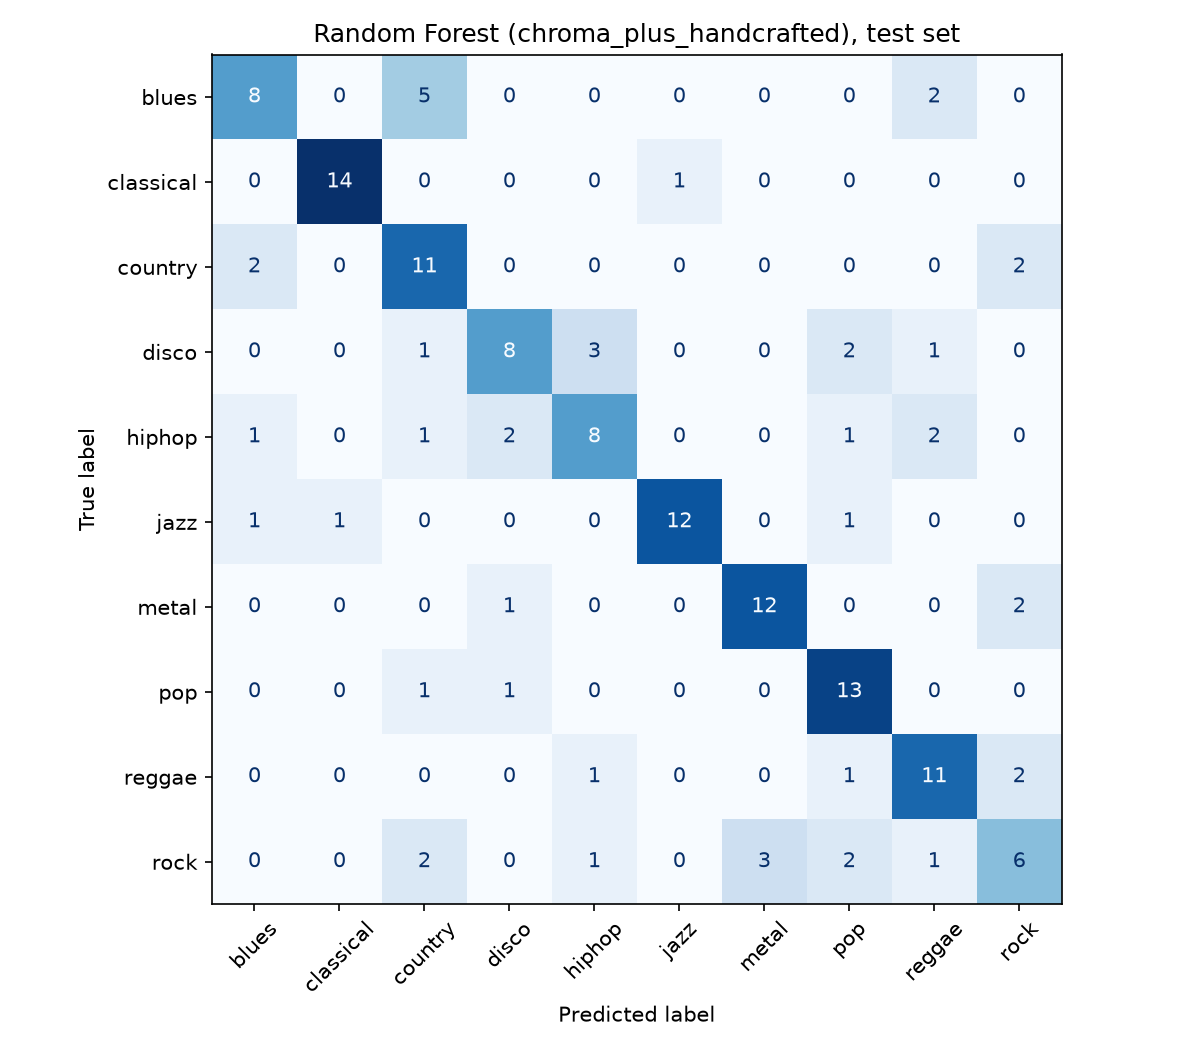
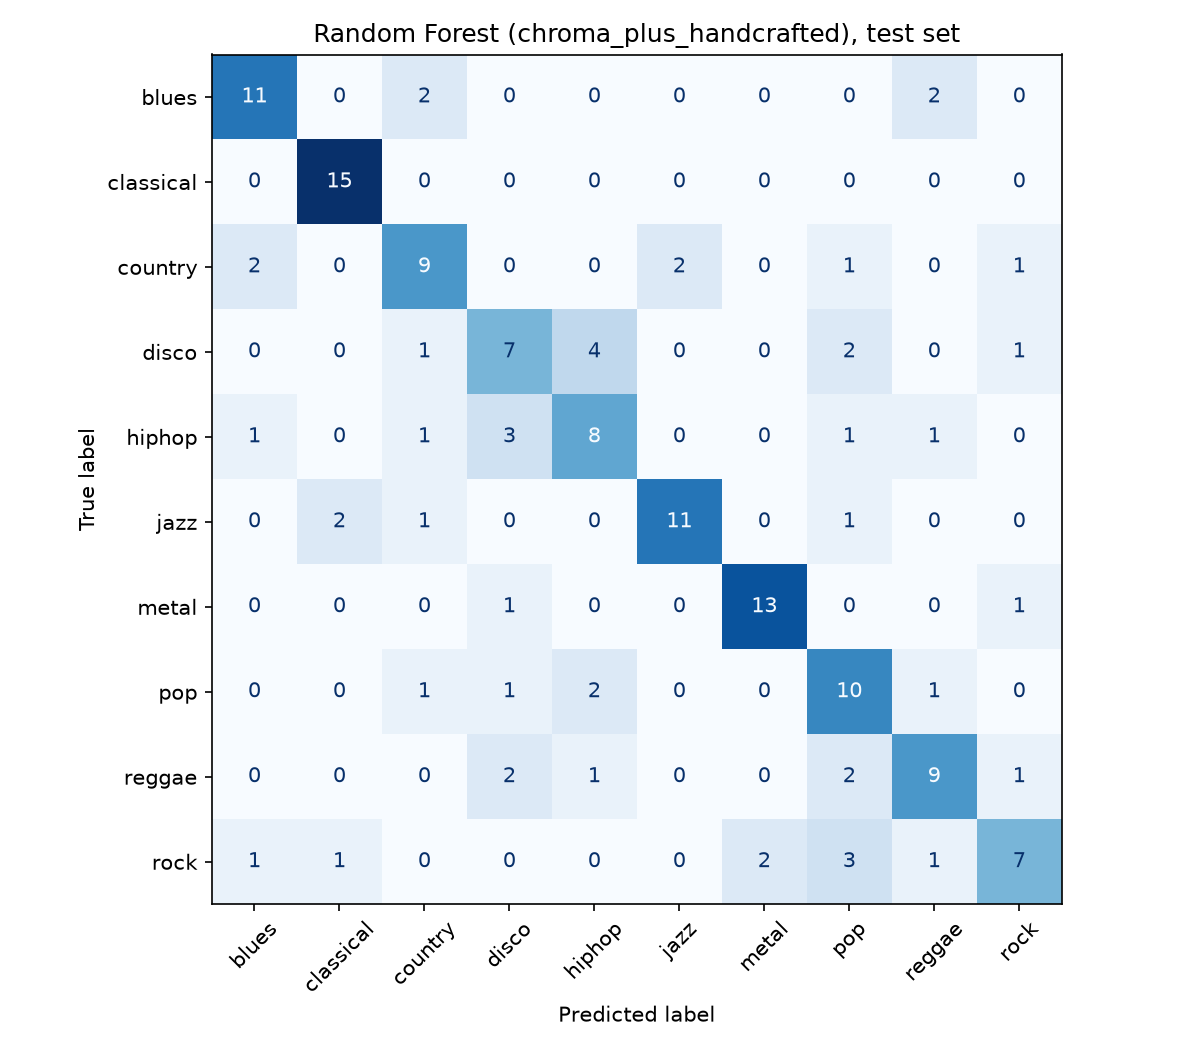
feat(P1.5): align handcrafted features to Tzanetakis and Cook, keep original RF result

diff --git a/offline/features/handcrafted.py b/offline/features/handcrafted.py
@@ -6,22 +6,32 @@ from offline.config import HOP_LENGTH, N_FFT, SAMPLE_RATE
 from offline.features.cache import is_cached, load_manifest, load_waveform, save_feature
 
 FEATURE = "handcrafted"
-N_MFCC = 20
+N_MFCC = 5  # Tzanetakis & Cook use the first five MFCCs, excluding the DC term
+
+
+def spectral_flux(y: np.ndarray) -> np.ndarray:
+    """Squared change between successive length-normalised magnitude spectra."""
+    mag = np.abs(librosa.stft(y, n_fft=N_FFT, hop_length=HOP_LENGTH))
+    mag = mag / (np.linalg.norm(mag, axis=0, keepdims=True) + 1e-10)
+    return np.sum(np.diff(mag, axis=1) ** 2, axis=0)
 
 
 def handcrafted_summary(y: np.ndarray) -> np.ndarray:
-    """Mean and std of MFCC, spectral centroid, rolloff, ZCR and RMS, plus tempo (49 numbers)."""
+    """Mean and std of MFCC 1-5, centroid, rolloff, ZCR, flux; low-energy fraction; tempo (20 numbers)."""
     kw = dict(sr=SAMPLE_RATE, n_fft=N_FFT, hop_length=HOP_LENGTH)
-    mfcc = librosa.feature.mfcc(y=y, n_mfcc=N_MFCC, **kw)
+    mfcc = librosa.feature.mfcc(y=y, n_mfcc=N_MFCC + 1, **kw)[1:]   # drop coefficient 0
     centroid = librosa.feature.spectral_centroid(y=y, **kw)
     rolloff = librosa.feature.spectral_rolloff(y=y, **kw)
     zcr = librosa.feature.zero_crossing_rate(y, hop_length=HOP_LENGTH)
-    rms = librosa.feature.rms(y=y, hop_length=HOP_LENGTH)
+    flux = spectral_flux(y)[None, :]
+    rms = librosa.feature.rms(y=y, hop_length=HOP_LENGTH)[0]
     tempo, _ = librosa.beat.beat_track(y=y, sr=SAMPLE_RATE, hop_length=HOP_LENGTH)
 
-    rows = np.vstack([mfcc, centroid, rolloff, zcr, rms])        # (24, time)
-    stats = np.concatenate([rows.mean(axis=1), rows.std(axis=1)])  # 48 numbers
-    return np.concatenate([stats, np.atleast_1d(tempo)[:1]]).astype(np.float32)
+    n = flux.shape[1]                                                # shortest series
+    rows = np.vstack([mfcc[:, :n], centroid[:, :n], rolloff[:, :n], zcr[:, :n], flux])   # (9, n)
+    stats = np.concatenate([rows.mean(axis=1), rows.std(axis=1)])    # 18 numbers
+    low_energy = np.mean(rms < rms.mean())                           # 1 number
+    return np.concatenate([stats, [low_energy], np.atleast_1d(tempo)[:1]]).astype(np.float32)
 
 
 def extract_all(kind: str) -> None:

diff --git a/tests/test_features.py b/tests/test_features.py
@@ -24,7 +24,7 @@ def test_logmel_shape():
     out = logmel_segments(_tone())
     assert out.shape[0] == 19 and out.shape[1] == N_MELS
 
-def test_handcrafted_has_49_values():
+def test_handcrafted_has_20_values():
     out = handcrafted_summary(_tone(seconds=10))
-    assert out.shape == (49,)
+    assert out.shape == (20,)
     assert np.isfinite(out).all()
